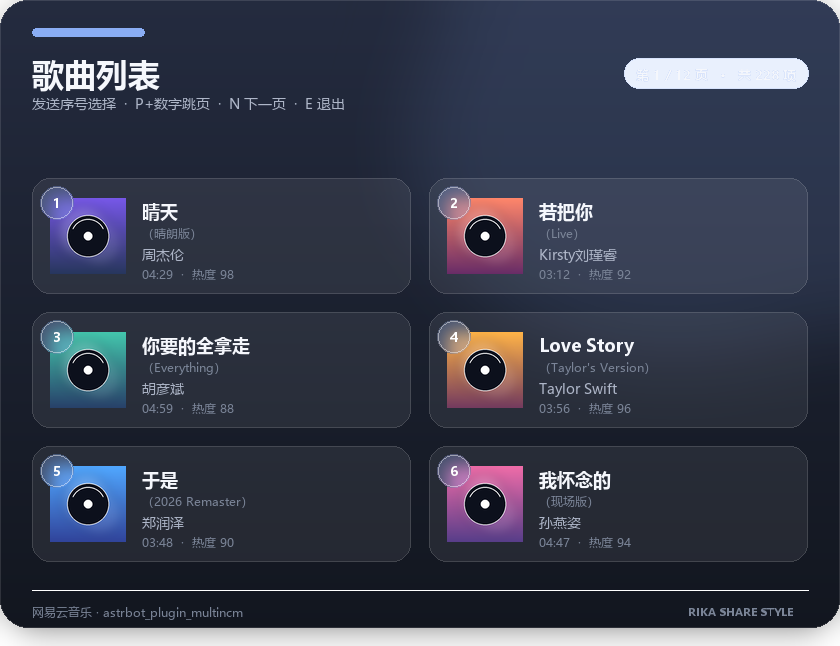
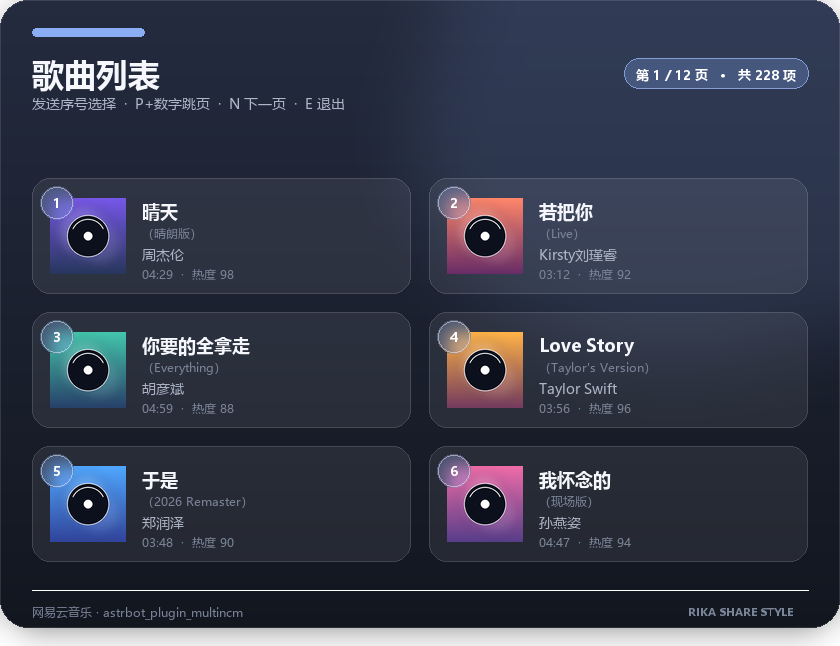
修复页数的透明问题

Changed region(s): [[0.7429, 0.0929, 0.9595, 0.1548]]

diff --git a/renderer.py b/renderer.py
@@ -204,8 +204,13 @@ async def render_search_list(page: "GeneralSongListPage", cards: list["ListPageC
     page_info = f"第 {page.father.current_page} / {page.father.max_page} 页   ·   共 {page.father.total_count} 项"
     info_font = _font(13, True)
     iw = draw.textbbox((0, 0), page_info, font=info_font)[2]
-    draw.rounded_rectangle((IMG_WIDTH - pad - iw - 24, 58, IMG_WIDTH - pad, 88), radius=15, fill=_with_alpha(accent, 48 if th is _THEMES["dark"] else 28), outline=_with_alpha(accent, 90), width=1)
-    _text(draw, (IMG_WIDTH - pad - iw - 12, 66), page_info, info_font, th.text)
+    pill_box = (IMG_WIDTH - pad - iw - 24, 58, IMG_WIDTH - pad, 88)
+    # 页数胶囊使用完全不透明底色，避免不同平台对半透明 PNG 的处理差异。
+    pill_bg = (70, 87, 126) if th is _THEMES["dark"] else (231, 237, 255)
+    pill_border = (132, 157, 215) if th is _THEMES["dark"] else (155, 181, 247)
+    pill_text = (255, 255, 255) if th is _THEMES["dark"] else (38, 65, 125)
+    draw.rounded_rectangle(pill_box, radius=15, fill=pill_bg, outline=pill_border, width=1)
+    _text(draw, (IMG_WIDTH - pad - iw - 12, 66), page_info, info_font, pill_text)
 
     covers = await asyncio.gather(*[_load_cover(c.cover, cover) for c in cards])
     y0 = pad + header_h
